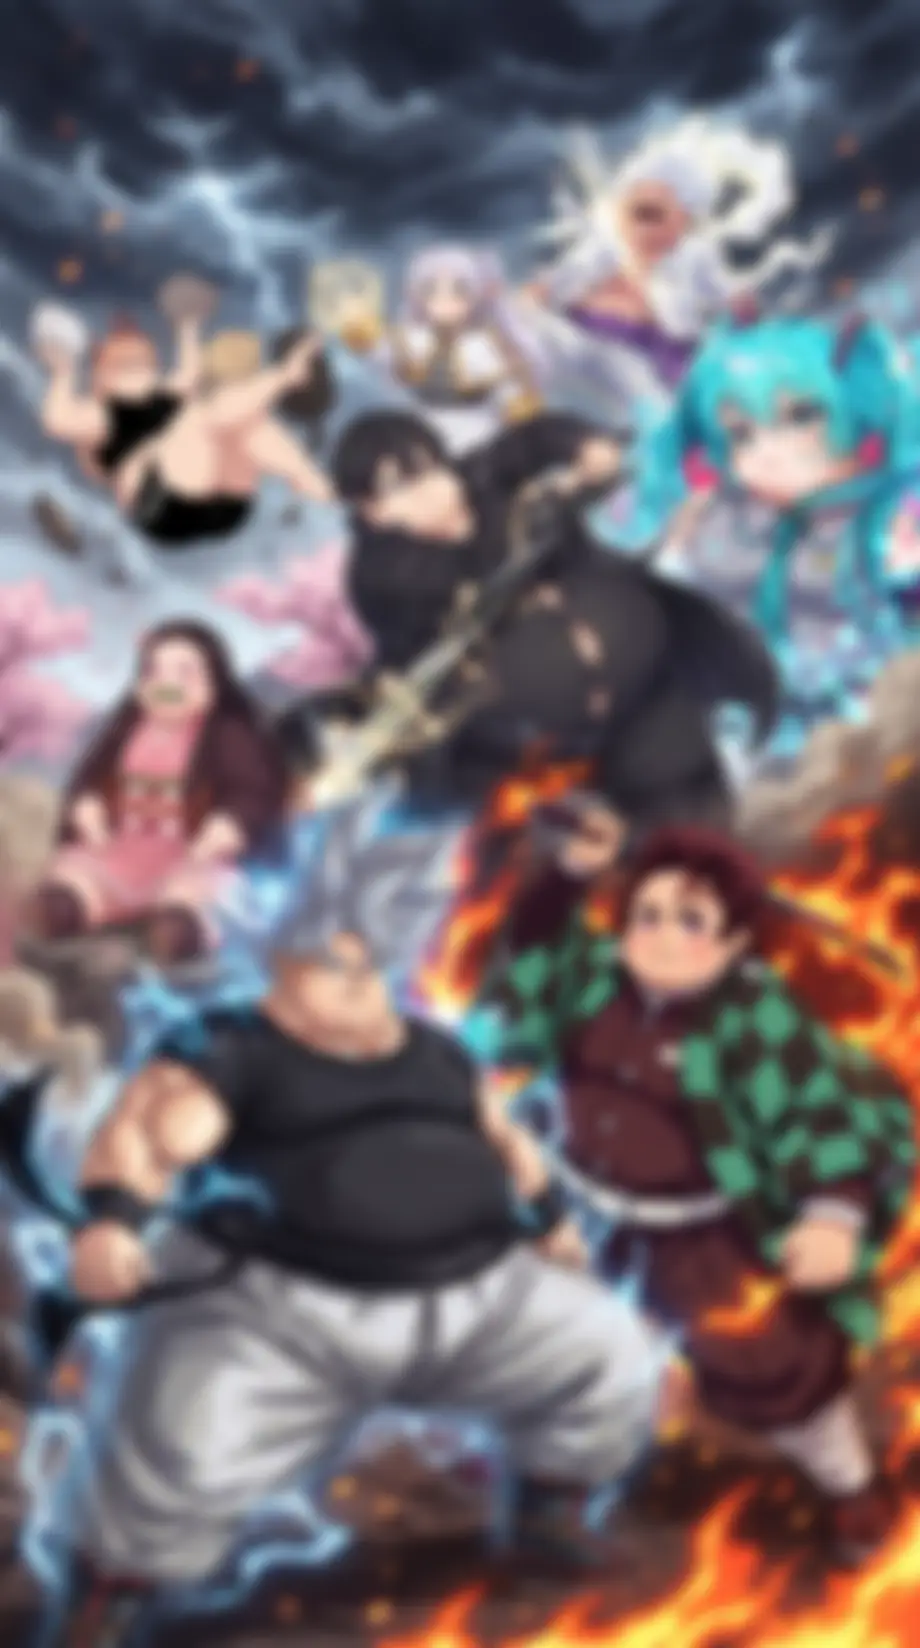
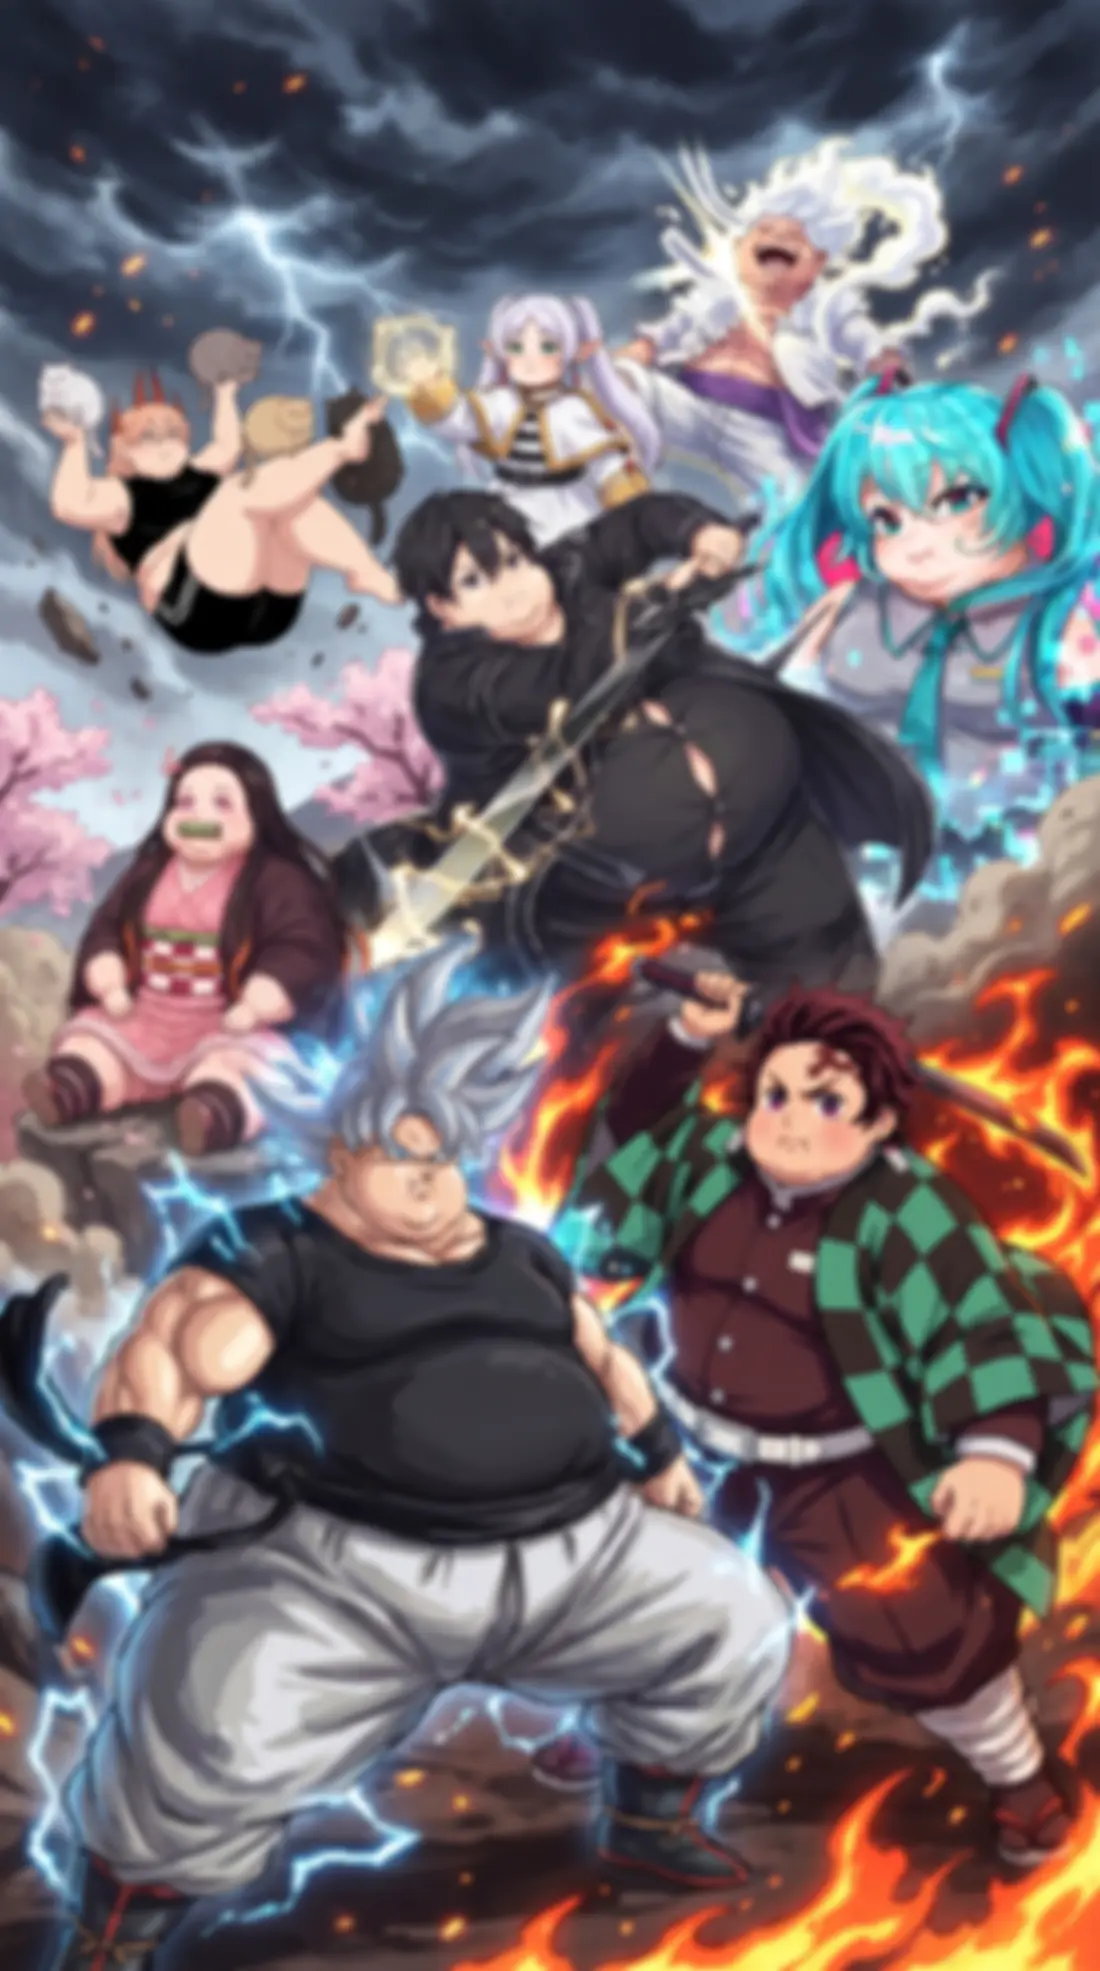
Less-blurred backdrop; fix mushed Japanese (Dela -> Zen Kaku)
- Regenerated the backdrop at lower blur (sigma 8 -> 4, 1100px) so the
  key visual is clearly visible behind the UI
- Japanese was rendering in Dela Gothic One, whose ultra-heavy kanji
  merge/mush at UI sizes. Now:
  - --font-jp and the brush fallback use Zen Kaku Gothic New (legible)
  - html[lang=ja] swaps the display font to Zen Kaku and keeps headings
    bold (900), so all JA text is clean; English headings stay Dela
- wordmark-jp subtitle weighted 700

diff --git a/css/style.css b/css/style.css
@@ -28,10 +28,10 @@
      title, anime/series names and character names. Everything else uses
      the clean fonts below. $/digits/punctuation/Japanese (absent from the
      brush) fall back per-glyph to Dela. */
-  --font-brand: "Sukajan Brush", "Dela Gothic One", sans-serif;
+  --font-brand: "Sukajan Brush", "Zen Kaku Gothic New", "Noto Sans JP", sans-serif;
   --font-display: "Dela Gothic One", system-ui, sans-serif;
   --font-ui: "Zen Kaku Gothic New", "Inter", system-ui, sans-serif;
-  --font-jp: "Dela Gothic One", "Noto Sans JP", system-ui, sans-serif;
+  --font-jp: "Zen Kaku Gothic New", "Noto Sans JP", system-ui, sans-serif;
   --font-body: "Inter", "Zen Kaku Gothic New", "Noto Sans JP", "Hiragino Kaku Gothic ProN", "Yu Gothic", sans-serif;
   --font-clean: "Inter", "Noto Sans JP", system-ui, sans-serif;
   --tabbar-h: 74px;
@@ -141,6 +141,7 @@ button {
   position: relative;
   z-index: 1;
   font-family: var(--font-jp);
+  font-weight: 700;
   font-size: 14px;
   letter-spacing: 0.3em;
   text-indent: 0.3em;
@@ -1013,6 +1014,27 @@ button {
   .tab:hover { opacity: 0.85; }
   .tab.active:hover, .tab.fatten:hover { opacity: 1; }
   .tab.fatten:hover .bubble { transform: scale(1.08); }
+}
+
+/* ============================================================
+   Japanese mode. Dela Gothic One mushes kanji together at UI sizes,
+   so swap the display font for the cleaner Zen Kaku Gothic New and
+   keep headings bold. (UI/body already use Zen/Inter→Noto.)
+   ============================================================ */
+
+html[lang="ja"] { --font-display: "Zen Kaku Gothic New", "Noto Sans JP", sans-serif; }
+
+html[lang="ja"] .section-title,
+html[lang="ja"] .btn,
+html[lang="ja"] .mode,
+html[lang="ja"] .dz-title,
+html[lang="ja"] .loading-caption,
+html[lang="ja"] .countdown,
+html[lang="ja"] .tap-hint,
+html[lang="ja"] .display,
+html[lang="ja"] .notify label,
+html[lang="ja"] .video-card .label {
+  font-weight: 900;
 }
 
 /* ---------- reduced motion ---------- */

diff --git a/tools/jptest.py b/tools/jptest.py
@@ -1,0 +1,13 @@
+# Compare Japanese rendering: Dela Gothic (current, mushed) vs Zen Kaku (fix).
+from PIL import Image, ImageDraw, ImageFont
+
+img = Image.new("RGB", (900, 360), "#1b1822")
+d = ImageDraw.Draw(img)
+dela = ImageFont.truetype("tmp/DelaGothicOne.ttf", 44)
+zen = ImageFont.truetype("tmp/ZenKaku-Bold.ttf", 44)
+zen_s = ImageFont.truetype("tmp/ZenKaku-Bold.ttf", 30)
+d.text((30, 30), "Dela:  もぐもぐ劇場 / アニメアイコンを太らせよう", font=dela, fill="#fff")
+d.text((30, 150), "Zen:   もぐもぐ劇場 / アニメアイコンを太らせよう", font=zen, fill="#fff")
+d.text((30, 260), "Zen 30px: 次に太らせるのは？ 空きが出たら通知する", font=zen_s, fill="#fff")
+img.save("tmp/jptest.png")
+print("ok")
